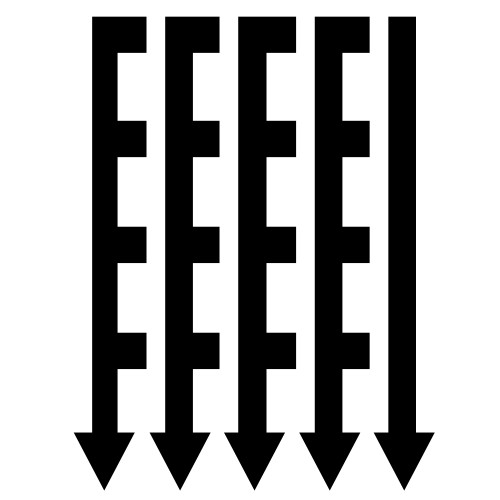
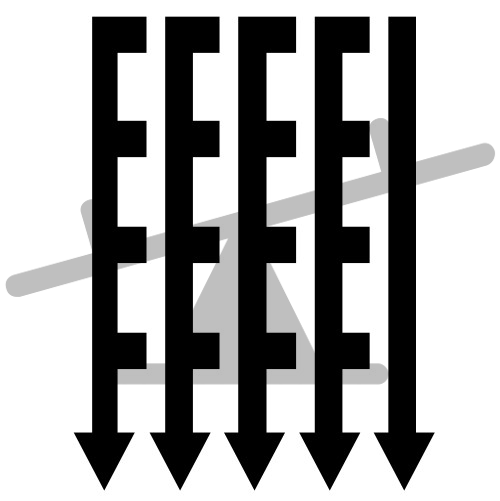
added in attacking position selection with networktables stuff, some of infinyxis's images, bruners transparent defense images

diff --git a/autonomousSelection.html b/autonomousSelection.html
@@ -107,6 +107,14 @@
                 case "currentlySelectedMode":
                   $("#autonomousOptionSelect").val(value);
                   break;
+                case "attackerState0":
+                case "attackerState1":
+                case "attackerState2":
+                case "attackerState3":
+                case "attackerState4":
+                  var attackerImage=$("#"+key);
+                  attackerImage.attr("state",attackerNames.indexOf(value)).attr("src","img/"+value+".png");;
+                break;
           }
         }
 
@@ -117,6 +125,7 @@
         </div>
         <break>
         <div class="RobotSelector">
+          <img class="attackerState"></img>
         </div>
       </div>
       <div class="FieldSelector">
@@ -124,6 +133,7 @@
           <div class="DefenseSelector"></div>
         </div>
         <div class="RobotSelector">
+          <img class="attackerState"></img>
         </div>
       </div>
       <div class="FieldSelector">
@@ -131,6 +141,7 @@
           <div class="DefenseSelector"></div>
         </div>
         <div class="RobotSelector">
+          <img class="attackerState"></img>
         </div>
       </div>
       <div class="FieldSelector">
@@ -138,6 +149,7 @@
           <div class="DefenseSelector"></div>
         </div>
         <div class="RobotSelector">
+          <img class="attackerState"></img>
         </div>
       </div>
       <div class="FieldSelector">
@@ -145,6 +157,8 @@
           <div class="DefenseSelector"></div>
           </div>
         <div class="RobotSelector">
+          <img class="attackerState"></img>
+
         </div>
       </div>
     </div>
@@ -154,8 +168,32 @@
       scroll through abcd, click on the pic to toggle, default to A1,
       change the networkTable Value of currentSelectedMode
       */
-      defenseNames=["A","B","C","D"];
+      var defenseNames=["A","B","C","D"];
+      var realDefenseNames=[["porticulis","seesaw"],["moat","ramparts"],
+      ["gate","drawbridge"],["wall","roughterrain"]];
+      var attackerNames=["empty","allied","us"];
       $(document).ready(function(){
+        //for every of the 5 attacking positions give the image the attacking toggleswitchcyclethroughimagesthing
+        //thing onclick and make it update networktables
+        var everyOffensiveToggleImage=$(".attackerState");
+        everyOffensiveToggleImage.each(function(a){
+          //set a default value, add the onclick listener, update networktables
+          //
+          var thisImage=$(this);
+          thisImage.attr("id","attackerState"+a).attr("state",0).attr("position",a).attr("src","img/empty.png");
+          thisImage.click(function(){
+            var theImage=$(this);
+            var currentState=theImage.attr("state");
+            if(currentState==2){
+              currentState=0;
+            }else{currentState++}
+            theImage.attr("state",currentState);
+            console.log("thingclicked",theImage.attr("id"),attackerNames[currentState]);
+            NetworkTables.setValue(theImage.attr("id"),attackerNames[currentState]);
+          });
+        });
+
+
 
         //for every selection Div, make the stuff, add a listener to each arrow, the toggleBox,
         //set the value from networkTables or if no networkTables, get the default value
@@ -218,13 +256,7 @@
           if(defenseNumber==0){defenseNumber=1;}
           else{defenseNumber=0;}
       });
-    });/*
-      function incrementDefenseClass(increment,object){
-
-      }
-      function toggleDefenseNumber(object){
-
-      }*/
+    });
 
       </script>
     <div class="MainDivide" id="rightSection">

diff --git a/style.css b/style.css
@@ -39,3 +39,10 @@ nav {
 	border-color:black;
 	border:solid;
 }
+.attackerState{
+	background-color: white;
+	border-color:blue;
+
+	height:100px;
+  width:100px;
+}

diff --git a/driverStationServer.py b/driverStationServer.py
@@ -41,7 +41,7 @@ def init_networktables(ipaddr):
     logger.info("Networktables Initialized")
 
 
-def main(fileName='practice.html'):
+def main(fileName='autonomousSelection.html'):
     #argument 1 is the filename of the script to be run
     define("frontcam", default="http://10.14.18.2:5800", help="URL for the front camera", type=str)
     define("backcam", default="http://10.14.18.2:5801", help="URL for the back camera", type=str)
